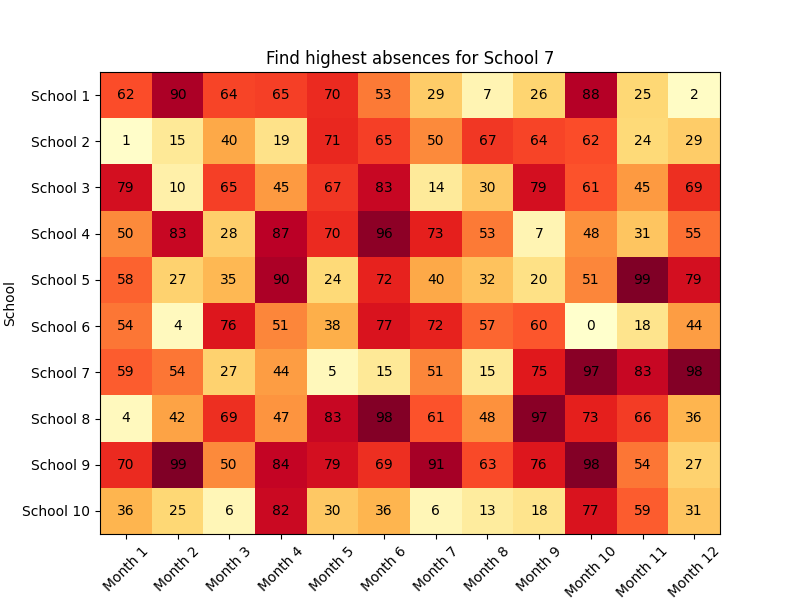
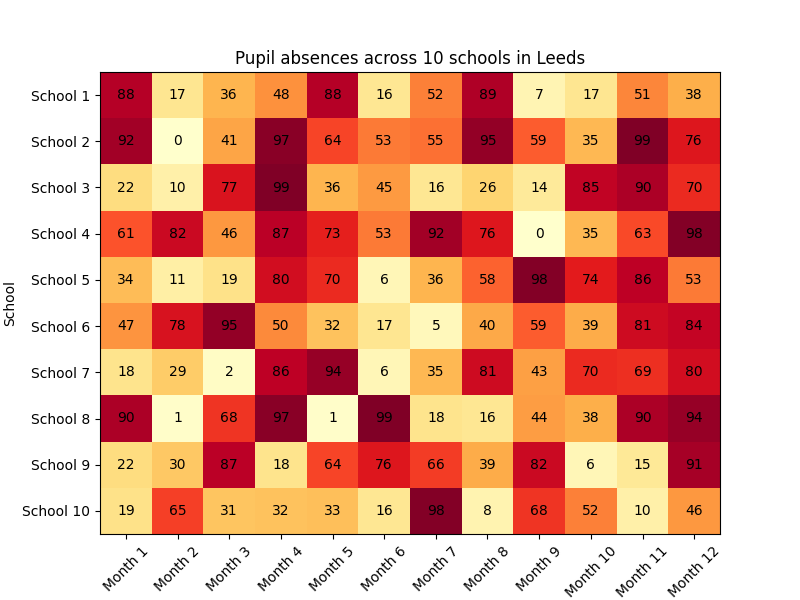
Toby & Will's revised code, putting into branch for testing before merge to main

diff --git a/GraphTest.py b/GraphTest.py
@@ -6,95 +6,188 @@ import tkinter as tk
 from tkinter import ttk
 from matplotlib.backends.backend_tkagg import FigureCanvasTkAgg
 import os
+import random
 
 # Configuration parameters
-NUM_TRIALS = 5
+NUM_TRIALS = 10
 NUM_SCHOOLS = 10
 NUM_MONTHS = 12
 IMAGE_DIR = 'charts'
 RESULTS_DIR = 'Results'
+questions = [
+    "Which school had the highest number of absences in month _?",
+    "Which school had the lowest number of absences in month _?",
+    "Which month were absences across all schools the highest?",
+    "Is there a noticeable difference in absences between School - and School ^ in Month _? (A difference of 10 or more)",
+    "Did School - have more absences in Month _ or Month *?",
+    "Which month shows the greatest range in absences across schools?",
+    "Which school had the most consistent number of absences throughout the year?",
+    "Identify the school with the largest decrease in absences from one month to the next.",
+    "Which month had the second highest absences for School -?",
+    "Are there more absences in the first half of the year (January to June) or the second half (July to December) in School -?"
+]
+
+# Global state variables encapsulated in a dictionary for clarity
+state = {
+    "current_trial": 0,
+    "chart_type": 'heatmap',
+    "task_description": '',
+    "target_school_id": 0,
+    "current_data": None,
+    "correct_answer": None,
+    "results": []
+}
+
+# Function to randomise and customise questions
+def get_randomised_questions():
+    customised_questions = []
+    for question in random.sample(questions, len(questions)):
+        # Replace "_" and "-" with randomised values
+        if "_" or "*" or "-" or "^" in question:
+            question = question.replace("_", str(np.random.randint(1, NUM_MONTHS + 1)))
+            question = question.replace("*", str(np.random.randint(1, NUM_MONTHS + 1)))
+            question = question.replace("-", str(np.random.randint(1, NUM_SCHOOLS + 1)))
+            question = question.replace("^", str(np.random.randint(1, NUM_SCHOOLS + 1)))
+        customised_questions.append(question)
+    return customised_questions
+
+# Initial question list with randomised elements
+question_list = get_randomised_questions()
 
 # Ensure directories exist
 os.makedirs(IMAGE_DIR, exist_ok=True)
 os.makedirs(RESULTS_DIR, exist_ok=True)
 
-# Data recording
-results = []
-current_trial = 0
-chart_type = 'heatmap'
-task_description = ''
-target_school_id = 0
-current_data = None
-
 # Generate random data
 def generate_data():
     return np.random.randint(0, 100, (NUM_SCHOOLS, NUM_MONTHS))
 
+# Adjusted calculate_answer function
+def calculate_answer(question, data):
+    # Generate answers based on each question type
+    try:
+        if "highest number of absences" in question:
+            school_id = int(question.split()[-1][:-1]) - 1
+            result = np.argmax(data[:, school_id]) + 1
+            print(f"Correct answer calculated: {result}")
+            return result 
+
+        elif "lowest number of absences" in question:
+            school_id = int(question.split()[-1][:-1]) - 1
+            result = np.argmin(data[:, school_id]) + 1
+            print(f"Correct answer calculated: {result}")
+            return result 
+
+        elif "absences across all schools the highest" in question:
+            result = np.argmax(data.sum(axis=0)) + 1
+            print(f"Correct answer calculated: {result}")
+            return result
+
+        elif "difference in absences between School" in question:
+            school1 = int(question.split()[-13]) - 1
+            school2 = int(question.split()[-10]) - 1
+            month = int(question.split()[-7][:-1]) - 1
+            difference = abs(data[school1, month] - data[school2, month])
+            if difference < 10:
+                result = "no"
+            else:
+                result = "yes"
+            print(f"Correct answer calculated: {result}")
+            return result 
+
+        elif "more absences in Month" in question:
+            school_id = int(question.split()[-10]) - 1
+            month1 = int(question.split()[-1][:-1]) - 1
+            month2 = int(question.split()[-4]) - 1
+            if data[school_id, month1] > data[school_id, month2]:
+                result = month1 + 1  
+            else:
+                result = month2 + 1
+            print(f"Correct answer calculated: {result}")
+            return result
+        
+
+        elif "greatest range in absences across schools" in question:
+            result = np.argmax(data.max(axis=0) - data.min(axis=0)) + 1
+            print(f"Correct answer calculated: {result}")
+            return result
+
+        elif "most consistent number of absences throughout the year" in question:
+            result = np.argmin(np.std(data, axis=1)) + 1
+            print(f"Correct answer calculated: {result}")
+            return result
+
+        elif "largest decrease in absences from one month to the next" in question:
+            diffs = np.diff(data, axis=1)
+            school, month = np.unravel_index(np.argmin(diffs), diffs.shape)
+            result = school + 1
+            print(f"Correct answer calculated: {result}")
+            return result
+
+        elif "second highest absences for School" in question:
+            school_id = int(question.split()[-1][:-1]) - 1
+            sorted_absences = np.argsort(data[school_id])
+            result = sorted_absences[-2] + 1
+            print(f"Correct answer calculated: {result}")
+            return result
+
+        elif "more absences in the first half of the year" in question:
+            school_id = int(question.split()[-1][:-1]) - 1
+            first_half_sum = data[school_id, :6].sum()
+            second_half_sum = data[school_id, 6:].sum()
+            if first_half_sum > second_half_sum:
+                result = "first half" 
+            else:
+                result = "second half"
+            print(f"Correct answer calculated: {result}")
+            return result
+            
+
+    except ValueError:
+        print("Error in parsing question for calculation.")
+
+    return None
+
+# Tkinter event handler for responses
 def on_input(event=None):
-    global current_trial, chart_type, task_description, target_school_id
     response_time = time.time() - start_time
-    response = entry.get().strip()  # Get text from entry box
-    entry.delete(0, tk.END)  # Clear input box after reading the value
-    correct = False
-
-    # If the chart is a heatmap, expect user to input a month number (1-12)
-    if chart_type == 'heatmap':
-        try:
-            month = int(response) - 1  # Convert input to zero-indexed month
-            if 0 <= month < NUM_MONTHS:
-                # Find the target value (highest absence for the target school)
-                target_value = np.max(current_data[target_school_id])
-                # Check if the absence in the specified month matches the target value
-                if current_data[target_school_id, month] == target_value:
-                    correct = True
-                else:
-                    print(f"Incorrect: Highest absence for School {target_school_id + 1} "
-                          f"is not in Month {month + 1}.")
-            else:
-                print("Invalid month number. Please enter a number between 1 and 12.")
-        except ValueError:
-            print("Invalid input. Please enter a valid month number.")
-
-    # If the chart is a scatterplot, expect user to input an absence value (float)
-    elif chart_type == 'scatterplot':
-        try:
-            response_value = float(response)
-            # Get the maximum absence for the target school
-            max_absence = np.max(current_data[target_school_id])
-            # Check if user's response is within 5 of the max absence
-            if abs(response_value - max_absence) < 5:  # Allows a small margin of error
-                correct = True
-            else:
-                print(f"Incorrect: Maximum absence for School {target_school_id + 1} "
-                      f"is {max_absence}. Your input was {response_value}.")
-        except ValueError:
-            print("Invalid input. Please enter a valid absence number.")
-
-    # Create image filename for the current chart
-    image_filename = save_plot(chart_type)
+    response = entry.get().strip()
+    entry.delete(0, tk.END)
     
-    # Append the results
-    results.append([chart_type, task_description, correct, response_time, image_filename])
+    correct = response == str(state["correct_answer"])  # Compare strings for accuracy
+    
+    # Save result with added error handling
+    try:
+        image_filename = save_plot(state["chart_type"])
+        state["results"].append([
+            state["chart_type"], 
+            state["task_description"], 
+            correct, 
+            state["correct_answer"],  # Store correct answer for easy comparison
+            response,                 # Store user response
+            response_time, 
+            image_filename
+        ])
+    except Exception as e:
+        print("Error saving result:", e)
 
-    # Move to the next trial
-    current_trial += 1
-    plt.close()  # Close the current plot
-    root.after(1000, run_next_trial)  # Wait 1 second before showing the next trial
+    state["current_trial"] += 1
+    plt.close()
+    root.after(1000, run_next_trial)
 
-
-# Helper function to save plot images
+# Function to display plots and save image
 def save_plot(chart_type):
-    image_filename = f"{IMAGE_DIR}/trial_{current_trial + 1}_{chart_type}.png"
+    image_filename = f"{IMAGE_DIR}/trial_{state['current_trial'] + 1}_{chart_type}.png"
     plt.savefig(image_filename)
     return image_filename
 
-def show_heatmap(data, task):
+# Heatmap and scatterplot functions
+def show_heatmap(data):
     fig, ax = plt.subplots(figsize=(8, 6))
     ax.imshow(data, cmap='YlOrRd', aspect='auto')
     ax.set_xlabel('Month')
     ax.set_ylabel('School')
-    ax.set_title(f"Find {task}")
-
+    ax.set_title("Pupil absences across 10 schools in Leeds")
     months = [f'Month {i+1}' for i in range(data.shape[1])]
     schools = [f'School {i+1}' for i in range(data.shape[0])]
     ax.set_xticks(np.arange(data.shape[1]))
@@ -105,10 +198,9 @@ def show_heatmap(data, task):
     for i in range(data.shape[0]):
         for j in range(data.shape[1]):
             ax.text(j, i, str(data[i, j]), ha='center', va='center', color='black')
-
     embed_plot_in_tkinter(fig)
 
-def show_scatterplot(data, task):
+def show_scatterplot(data):
     fig, ax = plt.subplots(figsize=(10, 6))
     colors = plt.cm.tab10(np.linspace(0, 1, NUM_SCHOOLS))
     markers = ['o', '^', 'v', 's', 'D', 'x', '+', 'P', '*', 'H']
@@ -121,7 +213,7 @@ def show_scatterplot(data, task):
 
     ax.set_xlabel('Month')
     ax.set_ylabel('Absences')
-    ax.set_title(f"Find {task}")
+    ax.set_title(f"Pupil abscences across 10 schools in Leeds")
     months_labels = [f'Month {i + 1}' for i in range(NUM_MONTHS)]
     ax.set_xticks(np.arange(NUM_MONTHS))
     ax.set_xticklabels(months_labels, rotation=45)
@@ -131,60 +223,62 @@ def show_scatterplot(data, task):
 
     embed_plot_in_tkinter(fig)
 
+# Embedding plot into tkinter window
 def embed_plot_in_tkinter(fig):
-    canvas = FigureCanvasTkAgg(fig, master=plot_frame)
-    canvas.draw()
-    canvas.get_tk_widget().pack()
-    
-    # Set up the input box below the plot
-    entry_label.config(text=f"Enter your response for {task_description}:")
-    entry.pack()
-    submit_button.pack()
-
-def run_next_trial():
-    global start_time, chart_type, task_description, target_school_id, current_data
-    if current_trial >= 2 * NUM_TRIALS:
-        save_results()
-        root.quit()
-        return
-
-    if current_trial == NUM_TRIALS:
-        chart_type = 'scatterplot'
-
-    current_data = generate_data()
-    target_school_id = np.random.choice(range(NUM_SCHOOLS))
-    task_description = f"highest absences for School {target_school_id + 1}"
-    start_time = time.time()
-
     for widget in plot_frame.winfo_children():
         widget.destroy()  # Clear previous plot
 
-    if chart_type == 'heatmap':
-        show_heatmap(current_data, task_description)
-    else:
-        show_scatterplot(current_data, task_description)
+    canvas = FigureCanvasTkAgg(fig, master=plot_frame)
+    canvas.draw()
+    canvas.get_tk_widget().pack()
+    entry_label.config(text=f"Question: {state['task_description']}")
+    entry.pack()
+    submit_button.pack()
 
+# Start a new trial
+def run_next_trial():
+    if state["current_trial"] >= 2 * NUM_TRIALS:
+        save_results()
+        root.quit()
+        return
+    
+    # Regenerate questions every 10 trials
+    if state["current_trial"] % NUM_TRIALS == 0:
+        global question_list
+        question_list = get_randomised_questions()
+
+    # Switch between heatmap and scatterplot
+    state["chart_type"] = 'scatterplot' if state["current_trial"] >= NUM_TRIALS else 'heatmap'
+    state["current_data"] = generate_data()
+    state["task_description"] = question_list[state["current_trial"] % len(question_list)]
+    state["correct_answer"] = calculate_answer(state["task_description"], state["current_data"])
+    
+    global start_time
+    start_time = time.time()
+
+    if state["chart_type"] == 'heatmap':
+        show_heatmap(state["current_data"])
+    else:
+        show_scatterplot(state["current_data"])
+
+# Save results to CSV
 def save_results():
+    os.makedirs(RESULTS_DIR, exist_ok=True)
     with open(f'{RESULTS_DIR}/experiment_results.csv', 'w', newline='') as f:
         writer = csv.writer(f)
-        writer.writerow(['ChartType', 'Task', 'Correct', 'ResponseTime', 'ImageFilename'])
-        writer.writerows(results)
+        writer.writerow(['ChartType', 'Task', 'Correct', 'CorrectAnswer', 'UserResponse', 'ResponseTime', 'ImageFilename'])
+        writer.writerows(state["results"])
     print(f"Experiment complete. Results saved to {RESULTS_DIR}/experiment_results.csv.")
 
-# Tkinter main setup
+# Tkinter setup
 root = tk.Tk()
 root.title("Data Analysis Task")
-
-# Frames to organize layout
 plot_frame = ttk.Frame(root)
 plot_frame.pack(fill=tk.BOTH, expand=True)
-
 entry_label = ttk.Label(root, text="", font=("Arial", 14))
 entry_label.pack(pady=5)
-
 entry = ttk.Entry(root, font=("Arial", 14), width=20)
 submit_button = ttk.Button(root, text="Submit", command=on_input)
-# Bind the Enter key to the on_input function
 entry.bind('<Return>', on_input)
 root.after(1000, run_next_trial)
 root.mainloop()
